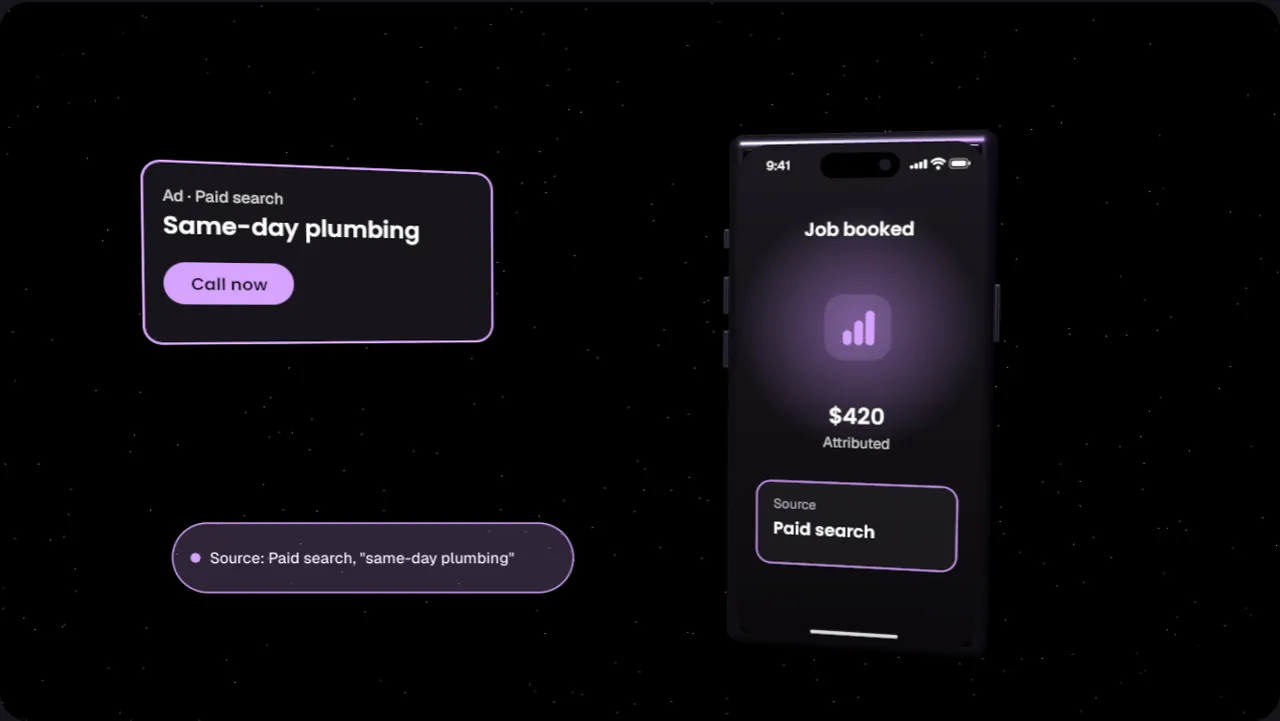
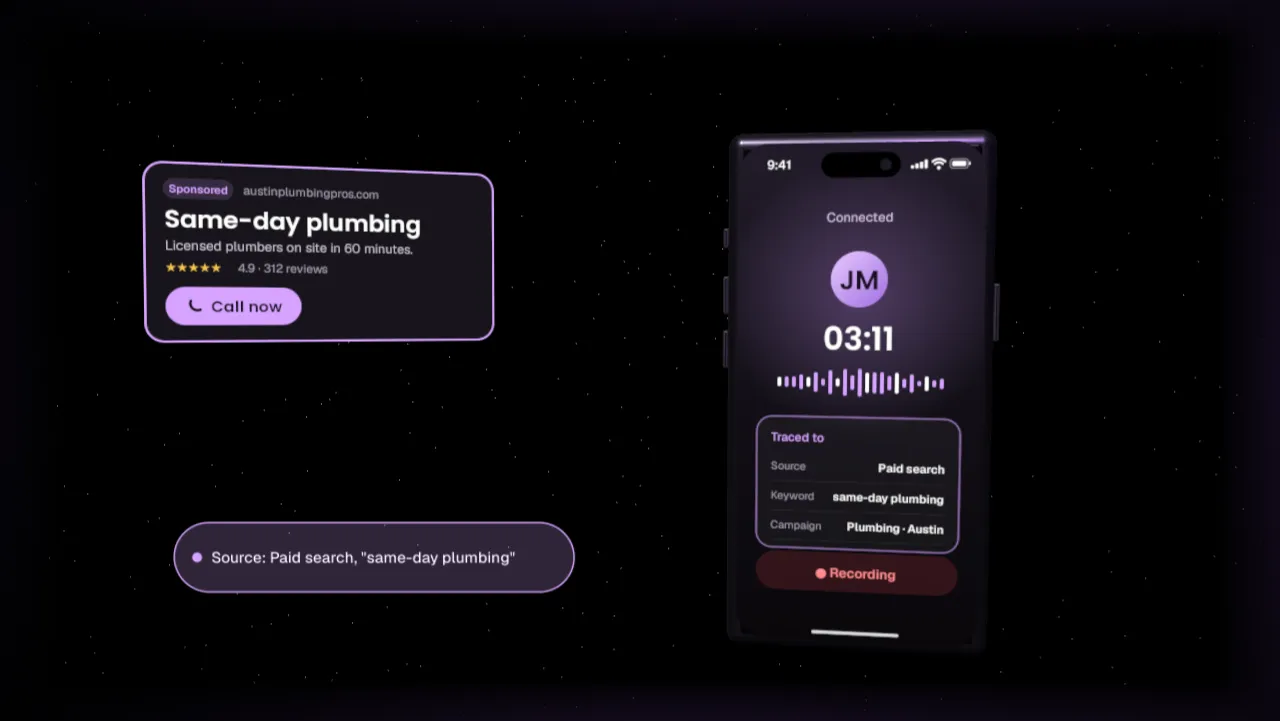
Hero animations: realistic call screens, search ad, lead signals, dot globe, market bars, synced platform cards

diff --git a/src/components/HeroScene.jsx b/src/components/HeroScene.jsx
@@ -46,6 +46,74 @@ function bars(ctx, x, y, s) {
   });
 }
 
+function avatar(ctx, x, y, r, initials) {
+  const g = ctx.createLinearGradient(x - r, y - r, x + r, y + r);
+  g.addColorStop(0, '#e8c9ff');
+  g.addColorStop(1, '#a06ee0');
+  ctx.fillStyle = g;
+  ctx.beginPath();
+  ctx.arc(x, y, r, 0, Math.PI * 2);
+  ctx.fill();
+  text(ctx, initials, x, y + r * 0.36, `600 ${Math.round(r * 0.95)}px Poppins, sans-serif`, '#1a1022', 'center');
+}
+
+function check(ctx, x, y, r, color = '#d6a3ff') {
+  ctx.fillStyle = color;
+  ctx.beginPath();
+  ctx.arc(x, y, r, 0, Math.PI * 2);
+  ctx.fill();
+  ctx.strokeStyle = '#160f1f';
+  ctx.lineWidth = r * 0.22;
+  ctx.lineCap = 'round';
+  ctx.lineJoin = 'round';
+  ctx.beginPath();
+  ctx.moveTo(x - r * 0.42, y + r * 0.02);
+  ctx.lineTo(x - r * 0.1, y + r * 0.34);
+  ctx.lineTo(x + r * 0.45, y - r * 0.3);
+  ctx.stroke();
+}
+
+// A telephone handset: a curved grip with an earpiece and mouthpiece at its ends.
+function handset(ctx, x, y, s, color, angle = 0) {
+  ctx.save();
+  ctx.translate(x, y);
+  ctx.rotate(angle - Math.PI * 0.25);
+  ctx.strokeStyle = color;
+  ctx.fillStyle = color;
+  ctx.lineCap = 'round';
+  ctx.lineWidth = s * 0.26;
+  ctx.beginPath();
+  ctx.arc(s * 0.32, 0, s * 0.62, Math.PI * 0.68, Math.PI * 1.32);
+  ctx.stroke();
+  [Math.PI * 0.68, Math.PI * 1.32].forEach((a) => {
+    const px = s * 0.32 + Math.cos(a) * s * 0.62;
+    const py = Math.sin(a) * s * 0.62;
+    ctx.save();
+    ctx.translate(px, py);
+    ctx.rotate(a + Math.PI / 2);
+    roundRect(ctx, -s * 0.26, -s * 0.13, s * 0.52, s * 0.26, s * 0.12);
+    ctx.fill();
+    ctx.restore();
+  });
+  ctx.restore();
+}
+
+function phoneButton(ctx, x, y, r, fill, hangUp) {
+  ctx.fillStyle = fill;
+  ctx.beginPath();
+  ctx.arc(x, y, r, 0, Math.PI * 2);
+  ctx.fill();
+  handset(ctx, x, y, r * 0.62, '#ffffff', hangUp ? Math.PI * 0.75 : 0);
+}
+
+// Label on the left, value on the right, hairline under.
+function row(ctx, x, y, w, label, value, valueColor = '#ffffff') {
+  text(ctx, label, x, y, '400 18px Geist, sans-serif', '#a59cb0');
+  text(ctx, value, x + w, y, '600 19px Geist, sans-serif', valueColor, 'right');
+  ctx.fillStyle = 'rgba(255,255,255,.07)';
+  ctx.fillRect(x, y + 18, w, 1.5);
+}
+
 function text(ctx, str, x, y, font, color, align = 'left') {
   ctx.font = font;
   ctx.fillStyle = color;
@@ -169,7 +237,7 @@ async function mount(el, onStep, reducedMotion) {
       phone.add(r);
       return r;
     });
-    const ad = canvasPlane(2.3, 1.2, 600, 312);
+    const ad = canvasPlane(2.3, 1.18, 600, 308);
     ad.mesh.position.set(-2.1, 0.85, -0.3);
     ad.mesh.rotation.y = 0.35;
     g.add(ad.mesh);
@@ -199,40 +267,87 @@ async function mount(el, onStep, reducedMotion) {
 
     const update = (u) => {
       const ringing = u < 3.2;
-      screen.paint(ringing ? 'ring' : u < 4.6 ? 'live' : 'done', (ctx, W, H) => {
+      const phase = ringing ? 'ring' : u < 4.6 ? 'live' : 'done';
+      const secs = Math.floor(Math.max(0, u - 3.2) * 9) + 180;
+      screen.paint(phase === 'live' ? `live${secs}` : phase, (ctx, W, H) => {
         clipScreen(ctx, W, H);
         const bg = ctx.createLinearGradient(0, 0, 0, H);
-        bg.addColorStop(0, '#1c1820');
-        bg.addColorStop(1, '#0b090d');
+        bg.addColorStop(0, '#221b2a');
+        bg.addColorStop(0.55, '#110e15');
+        bg.addColorStop(1, '#09070b');
         ctx.fillStyle = bg;
         ctx.fillRect(0, 0, W, H);
-        const glow = ctx.createRadialGradient(W / 2, 300, 20, W / 2, 300, 200);
-        glow.addColorStop(0, 'rgba(199,146,247,.45)');
+        const glow = ctx.createRadialGradient(W / 2, 250, 10, W / 2, 250, 230);
+        glow.addColorStop(0, phase === 'done' ? 'rgba(214,163,255,.42)' : 'rgba(199,146,247,.3)');
         glow.addColorStop(1, 'rgba(214,163,255,0)');
         ctx.fillStyle = glow;
         ctx.fillRect(0, 0, W, H);
-        text(ctx, ringing ? 'Incoming call' : u < 4.6 ? 'Connected' : 'Job booked', W / 2, 150, '600 30px Poppins, sans-serif', '#ffffff', 'center');
-        bars(ctx, W / 2 - 54, 246, 108);
-        text(ctx, u < 4.6 ? '(555) 014-2290' : '$420', W / 2, 460, '600 36px Poppins, sans-serif', '#ffffff', 'center');
-        text(ctx, ringing ? 'Ringing' : u < 4.6 ? 'Talking 3:12' : 'Attributed', W / 2, 500, '400 24px Geist, sans-serif', '#d4d4d4', 'center');
-        roundRect(ctx, 36, 560, W - 72, 140, 24);
-        ctx.fillStyle = 'rgba(255,255,255,.05)';
+        const P = 34;
+        if (phase === 'ring') {
+          text(ctx, 'Incoming call · CallsTalk', W / 2, 128, '500 21px Geist, sans-serif', '#c9b8dc', 'center');
+          avatar(ctx, W / 2, 238, 62, 'JM');
+          text(ctx, 'Jordan Miles', W / 2, 352, '600 34px Poppins, sans-serif', '#ffffff', 'center');
+          text(ctx, '(555) 014-2290 · Austin, TX', W / 2, 392, '400 22px Geist, sans-serif', '#c9c1d3', 'center');
+        } else if (phase === 'live') {
+          text(ctx, 'Connected', W / 2, 128, '500 21px Geist, sans-serif', '#c9b8dc', 'center');
+          avatar(ctx, W / 2, 222, 46, 'JM');
+          const mm = String(Math.floor(secs / 60)).padStart(2, '0');
+          const ss = String(secs % 60).padStart(2, '0');
+          text(ctx, `${mm}:${ss}`, W / 2, 338, '600 52px Poppins, sans-serif', '#ffffff', 'center');
+          // Voice waveform.
+          for (let k = 0; k < 23; k++) {
+            const h = 8 + Math.abs(Math.sin(k * 1.7 + secs * 0.9)) * 44 * (1 - Math.abs(k - 11) / 14);
+            roundRect(ctx, W / 2 - 132 + k * 12, 392 - h / 2, 6, h, 3);
+            ctx.fillStyle = k % 4 === 0 ? '#ffffff' : '#d6a3ff';
+            ctx.fill();
+          }
+        } else {
+          check(ctx, W / 2, 222, 48);
+          text(ctx, 'Job booked', W / 2, 322, '600 32px Poppins, sans-serif', '#ffffff', 'center');
+          text(ctx, '$420', W / 2, 386, '600 50px Poppins, sans-serif', '#d6a3ff', 'center');
+        }
+        // Attribution panel.
+        const y0 = 450;
+        roundRect(ctx, P, y0, W - P * 2, 222, 26);
+        ctx.fillStyle = 'rgba(255,255,255,.045)';
         ctx.fill();
-        ctx.strokeStyle = ringing ? '#302a36' : '#d6a3ff';
+        ctx.strokeStyle = phase === 'ring' ? '#302a36' : 'rgba(214,163,255,.7)';
         ctx.lineWidth = 2;
         ctx.stroke();
-        text(ctx, 'Source', 64, 606, '400 22px Geist, sans-serif', '#b3abbd');
-        text(ctx, ringing ? 'Identifying...' : 'Paid search', 64, 650, '600 28px Poppins, sans-serif', ringing ? '#b3abbd' : '#ffffff');
+        const known = phase !== 'ring';
+        text(ctx, known ? 'Traced to' : 'Tracing source...', P + 24, y0 + 42, '500 20px Geist, sans-serif', known ? '#d6a3ff' : '#a59cb0');
+        const iw = W - P * 2 - 48;
+        row(ctx, P + 24, y0 + 90, iw, 'Source', known ? 'Paid search' : '—');
+        row(ctx, P + 24, y0 + 140, iw, 'Keyword', known ? 'same-day plumbing' : '—');
+        row(ctx, P + 24, y0 + 190, iw, 'Campaign', known ? 'Plumbing · Austin' : '—');
+        if (phase === 'ring') {
+          phoneButton(ctx, W / 2 - 92, H - 118, 40, '#e5484d', true);
+          phoneButton(ctx, W / 2 + 92, H - 118, 40, '#2fbf71', false);
+        } else {
+          roundRect(ctx, P, H - 152, W - P * 2, 66, 33);
+          ctx.fillStyle = phase === 'done' ? '#d6a3ff' : 'rgba(229,72,77,.18)';
+          ctx.fill();
+          text(ctx, phase === 'done' ? 'Revenue sent to Google Ads' : '● Recording', W / 2, H - 110, '600 22px Geist, sans-serif', phase === 'done' ? '#160f1f' : '#ff8a8e', 'center');
+        }
         paintIPhoneChrome(ctx, W, H);
       });
       ad.paint(u > 1.2 && u < 2.4 ? 'click' : 'idle', (ctx, W, H) => {
         card(ctx, W, H, u > 1.2);
-        text(ctx, 'Ad · Paid search', 36, 70, '500 26px Geist, sans-serif', '#d4d4d4');
-        text(ctx, 'Same-day plumbing', 36, 124, '600 40px Poppins, sans-serif', '#ffffff');
-        roundRect(ctx, 36, 172, 210, 70, 35);
-        ctx.fillStyle = '#d6a3ff';
+        roundRect(ctx, 34, 30, 112, 34, 17);
+        ctx.fillStyle = 'rgba(214,163,255,.16)';
         ctx.fill();
-        text(ctx, 'Call now', 141, 218, '600 28px Poppins, sans-serif', '#160f1f', 'center');
+        text(ctx, 'Sponsored', 90, 54, '600 18px Geist, sans-serif', '#d6a3ff', 'center');
+        text(ctx, 'austinplumbingpros.com', 162, 54, '400 20px Geist, sans-serif', '#a59cb0');
+        text(ctx, 'Same-day plumbing', 36, 112, '600 40px Poppins, sans-serif', '#ffffff');
+        text(ctx, 'Licensed plumbers on site in 60 minutes.', 36, 150, '400 22px Geist, sans-serif', '#c9c1d3');
+        text(ctx, '★★★★★', 36, 186, '400 20px Geist, sans-serif', '#f5c451');
+        text(ctx, '4.9 · 312 reviews', 152, 186, '400 20px Geist, sans-serif', '#a59cb0');
+        const pressed = u > 1.2 && u < 2.4;
+        roundRect(ctx, 36, 212, 220, 64, 32);
+        ctx.fillStyle = pressed ? '#ecd4ff' : '#d6a3ff';
+        ctx.fill();
+        text(ctx, 'Call now', 166, 254, '600 26px Poppins, sans-serif', '#160f1f', 'center');
+        handset(ctx, 82, 244, 18, '#160f1f');
       });
       rings.forEach((r, i) => {
         const ph = (u * 0.9 + i / 3) % 1;
@@ -259,9 +374,9 @@ async function mount(el, onStep, reducedMotion) {
   // Vignette 2: lead scoring --------------------------------------------------
   function scoreVignette() {
     const g = new THREE.Group();
-    const N = 60;
+    const N = 96;
     const R = 1.55;
-    const seg = new THREE.InstancedMesh(new THREE.BoxGeometry(0.11, 1, 0.22), new THREE.MeshStandardMaterial({ color: 0xffffff, metalness: 0.3, roughness: 0.4 }), N);
+    const seg = new THREE.InstancedMesh(new THREE.BoxGeometry(0.05, 1, 0.14), new THREE.MeshStandardMaterial({ color: 0xffffff, metalness: 0.3, roughness: 0.4 }), N);
     seg.instanceColor = new THREE.InstancedBufferAttribute(new Float32Array(N * 3), 3);
     const dial = new THREE.Group();
     dial.position.set(1.4, 0, 0);
@@ -272,6 +387,7 @@ async function mount(el, onStep, reducedMotion) {
     center.mesh.position.set(1.4, 0.15, 0.6);
     g.add(center.mesh);
     const lead = canvasPlane(2.5, 1.55, 620, 384);
+    // 384 tall canvas holds the caller, three signals and the routing line.
     lead.mesh.position.set(-1.85, 0.25, 0.1);
     lead.mesh.rotation.y = 0.3;
     g.add(lead.mesh);
@@ -289,8 +405,8 @@ async function mount(el, onStep, reducedMotion) {
         const pop = active ? 1 : 0;
         dummy.position.set(Math.cos(a) * R, Math.sin(a) * R, 0);
         dummy.rotation.set(Math.PI / 2, 0, a);
-        dummy.scale.set(1, 0.12 + pop * 0.38, 1);
-        dummy.position.z = pop * 0.18;
+        dummy.scale.set(1, 0.16 + pop * 0.16, 1);
+        dummy.position.z = pop * 0.06;
         dummy.updateMatrix();
         seg.setMatrixAt(i, dummy.matrix);
         mix.copy(active ? on : off);
@@ -306,22 +422,26 @@ async function mount(el, onStep, reducedMotion) {
         text(ctx, 'Lead score', W / 2, 212, '500 34px Geist, sans-serif', '#b3abbd', 'center');
       });
       const routed = u > 3.8;
-      lead.paint(routed, (ctx, W, H) => {
+      const signals = Math.min(3, Math.floor((u - 0.8) / 0.9));
+      lead.paint(`${routed}|${signals}`, (ctx, W, H) => {
         card(ctx, W, H, routed);
-        ctx.fillStyle = '#d6a3ff';
-        ctx.beginPath();
-        ctx.arc(76, 82, 40, 0, Math.PI * 2);
-        ctx.fill();
-        text(ctx, 'JM', 76, 96, '600 34px Poppins, sans-serif', '#160f1f', 'center');
-        text(ctx, 'Inbound call', 136, 76, '600 36px Poppins, sans-serif', '#ffffff');
-        text(ctx, '(555) 014-2290 · Paid search', 136, 118, '400 27px Geist, sans-serif', '#c9c1d3');
-        [['High intent', 36], ['Emergency repair', 220]].forEach(([t, x]) => {
-          roundRect(ctx, x, 168, ctx.measureText(t).width + 60, 54, 27);
-          ctx.fillStyle = '#24202a';
-          ctx.fill();
-          text(ctx, t, x + 24, 204, '500 24px Geist, sans-serif', '#ffffff');
+        avatar(ctx, 72, 76, 38, 'JM');
+        text(ctx, 'Jordan Miles', 128, 70, '600 34px Poppins, sans-serif', '#ffffff');
+        text(ctx, 'Inbound call · Paid search', 128, 108, '400 24px Geist, sans-serif', '#c9c1d3');
+        [['Asked for a quote', 'High intent'], ['Call length 3:12', 'Engaged'], ['Keyword match', 'Emergency repair']].forEach(([l, v], i) => {
+          const y = 168 + i * 54;
+          const shown = i < signals;
+          ctx.globalAlpha = shown ? 1 : 0.35;
+          if (shown) check(ctx, 50, y - 8, 13);
+          else { ctx.strokeStyle = '#4d4555'; ctx.lineWidth = 2; ctx.beginPath(); ctx.arc(50, y - 8, 12, 0, Math.PI * 2); ctx.stroke(); }
+          text(ctx, l, 76, y, '400 24px Geist, sans-serif', '#ffffff');
+          text(ctx, v, W - 36, y, '500 22px Geist, sans-serif', '#d6a3ff', 'right');
+          ctx.globalAlpha = 1;
         });
-        text(ctx, routed ? 'Routed to Sales team in 4 seconds' : 'Scoring intent...', 36, 300, '600 28px Poppins, sans-serif', routed ? '#d6a3ff' : '#b3abbd');
+        roundRect(ctx, 36, 318, W - 72, 46, 23);
+        ctx.fillStyle = routed ? 'rgba(214,163,255,.18)' : 'rgba(255,255,255,.04)';
+        ctx.fill();
+        text(ctx, routed ? 'Routed to Sales in 4 seconds' : 'Scoring intent...', W / 2, 349, '600 22px Poppins, sans-serif', routed ? '#d6a3ff' : '#a59cb0', 'center');
       });
       lead.mesh.position.y = 0.25 + Math.sin(u * 1.2) * 0.05;
     };
@@ -400,8 +520,8 @@ async function mount(el, onStep, reducedMotion) {
         sources[i].paint(active, (ctx, W, H) => {
           card(ctx, W, H, active);
           bars(ctx, 30, 35, 80);
-          text(ctx, 'Campaign', 136, 62, '500 28px Geist, sans-serif', '#c9c1d3');
-          text(ctx, CH[i][0], 136, 106, '600 34px Poppins, sans-serif', '#ffffff');
+          text(ctx, CH[i][0], 136, 66, '600 32px Poppins, sans-serif', '#ffffff');
+          text(ctx, `${Math.round(CH[i][1] / 45)} calls · ${Math.round(CH[i][1] / 160)} forms`, 136, 106, '400 24px Geist, sans-serif', '#c9c1d3');
         });
       });
       owner.forEach((i, k) => {
@@ -426,8 +546,34 @@ async function mount(el, onStep, reducedMotion) {
     g.add(globe);
     const R = 1.75;
     globe.add(new THREE.Mesh(new THREE.SphereGeometry(R * 0.985, 48, 48), new THREE.MeshStandardMaterial({ color: 0x0c0a0e, metalness: 0.2, roughness: 0.8 })));
-    const wire = new THREE.LineSegments(new THREE.WireframeGeometry(new THREE.IcosahedronGeometry(R, 3)), new THREE.LineBasicMaterial({ color: 0x3a3341, transparent: true, opacity: 0.6 }));
-    globe.add(wire);
+    const lineMat = new THREE.LineBasicMaterial({ color: 0x5a4d68, transparent: true, opacity: 0.5 });
+    for (let k = 1; k < 8; k++) {
+      const lat = -Math.PI / 2 + (k / 8) * Math.PI;
+      const pts = Array.from({ length: 97 }, (_, j) => {
+        const a = (j / 96) * Math.PI * 2;
+        return new THREE.Vector3(Math.cos(a) * Math.cos(lat) * R, Math.sin(lat) * R, Math.sin(a) * Math.cos(lat) * R);
+      });
+      globe.add(new THREE.Line(new THREE.BufferGeometry().setFromPoints(pts), lineMat));
+    }
+    for (let k = 0; k < 12; k++) {
+      const lon = (k / 12) * Math.PI;
+      const pts = Array.from({ length: 97 }, (_, j) => {
+        const a = (j / 96) * Math.PI * 2;
+        return new THREE.Vector3(Math.cos(a) * Math.cos(lon) * R, Math.sin(a) * R, Math.cos(a) * Math.sin(lon) * R);
+      });
+      globe.add(new THREE.Line(new THREE.BufferGeometry().setFromPoints(pts), lineMat));
+    }
+    // A fine dot shell gives the sphere its surface.
+    const shell = new Float32Array(1400 * 3);
+    for (let k = 0; k < 1400; k++) {
+      const y = 1 - (k / 1399) * 2;
+      const r = Math.sqrt(1 - y * y);
+      const th = k * 2.39996;
+      shell.set([Math.cos(th) * r * R * 1.002, y * R * 1.002, Math.sin(th) * r * R * 1.002], k * 3);
+    }
+    const shellGeo = new THREE.BufferGeometry();
+    shellGeo.setAttribute('position', new THREE.BufferAttribute(shell, 3));
+    globe.add(new THREE.Points(shellGeo, new THREE.PointsMaterial({ color: 0xb48be0, size: 0.03, transparent: true, opacity: 0.6, depthWrite: false })));
     // City dots on the surface.
     const cities = Array.from({ length: 14 }, (_, i) => {
       const y = 1 - (i / 13) * 1.6 - 0.2;
@@ -475,9 +621,24 @@ async function mount(el, onStep, reducedMotion) {
       const calls = Math.round(1284 * ease((u - 0.4) / 3.6));
       counter.paint(calls, (ctx, W, H) => {
         card(ctx, W, H, true);
-        text(ctx, 'Calls tracked today', 40, 76, '500 30px Geist, sans-serif', '#b3abbd');
-        text(ctx, calls.toLocaleString('en-US'), 40, 170, '600 92px Poppins, sans-serif', '#ffffff');
-        text(ctx, 'across 14 markets', 40, 238, '500 30px Geist, sans-serif', '#d6a3ff');
+        ctx.fillStyle = '#2fbf71';
+        ctx.beginPath();
+        ctx.arc(48, 64, 8, 0, Math.PI * 2);
+        ctx.fill();
+        text(ctx, 'Live · calls tracked today', 66, 72, '500 26px Geist, sans-serif', '#b3abbd');
+        text(ctx, calls.toLocaleString('en-US'), 40, 158, '600 84px Poppins, sans-serif', '#ffffff');
+        text(ctx, 'across 14 markets', W - 40, 156, '500 24px Geist, sans-serif', '#d6a3ff', 'right');
+        [['Austin', 0.42], ['Denver', 0.31], ['Miami', 0.27]].forEach(([m, share], i) => {
+          const y = 206 + i * 36;
+          text(ctx, m, 40, y + 9, '400 22px Geist, sans-serif', '#c9c1d3');
+          roundRect(ctx, 150, y - 6, W - 300, 14, 7);
+          ctx.fillStyle = 'rgba(255,255,255,.07)';
+          ctx.fill();
+          roundRect(ctx, 150, y - 6, Math.max(14, (W - 300) * share * 2 * (calls / 1284)), 14, 7);
+          ctx.fillStyle = '#d6a3ff';
+          ctx.fill();
+          text(ctx, Math.round(calls * share).toLocaleString('en-US'), W - 40, y + 9, '600 22px Geist, sans-serif', '#ffffff', 'right');
+        });
       });
       counter.mesh.position.y = 0.2 + Math.sin(u * 1.1) * 0.05;
     };
@@ -490,7 +651,7 @@ async function mount(el, onStep, reducedMotion) {
     const hub = new THREE.Group();
     g.add(hub);
     const hubBody = new THREE.Mesh(new RoundedBoxGeometry(1.2, 1.2, 0.4, 6, 0.26), metal(0x16131a));
-    hubBody.material.emissiveIntensity = 0.35;
+    hubBody.material.emissiveIntensity = 0.06;
     hub.add(hubBody);
     const face = canvasPlane(1.1, 1.1, 300, 300);
     face.mesh.position.z = 0.21;
@@ -522,10 +683,12 @@ async function mount(el, onStep, reducedMotion) {
       })),
       new THREE.LineBasicMaterial({ color: 0x3a3341, transparent: true }),
     );
+    orbitRing.renderOrder = -1;
     g.add(orbitRing);
     const PLATFORMS = [['Search ads', 34], ['Social ads', 21], ['Display ads', 12]];
     const cards = PLATFORMS.map(() => {
       const p = canvasPlane(1.7, 0.66, 460, 178);
+      p.mesh.renderOrder = 2;
       g.add(p.mesh);
       return p;
     });
@@ -542,9 +705,11 @@ async function mount(el, onStep, reducedMotion) {
         const n = Math.round(PLATFORMS[i][1] * ease((u - 0.8 - i * 0.3) / 3.4));
         p.paint(n, (ctx, W, H) => {
           card(ctx, W, H, n > 0);
-          text(ctx, PLATFORMS[i][0], 34, 72, '600 38px Poppins, sans-serif', '#ffffff');
-          text(ctx, 'Conversions synced', 34, 130, '400 31px Geist, sans-serif', '#c9c1d3');
-          text(ctx, `+${n}`, W - 34, 128, '600 32px Poppins, sans-serif', '#d6a3ff', 'right');
+          bars(ctx, 28, 36, 64);
+          text(ctx, PLATFORMS[i][0], 110, 70, '600 34px Poppins, sans-serif', '#ffffff');
+          text(ctx, n > 0 ? 'Conversions synced' : 'Waiting for calls', 110, 112, '400 26px Geist, sans-serif', '#c9c1d3');
+          text(ctx, `+${n}`, W - 30, 72, '600 34px Poppins, sans-serif', '#d6a3ff', 'right');
+          if (n === PLATFORMS[i][1]) check(ctx, W - 46, 118, 14);
         });
       });
       seeds.forEach((sd, k) => {
